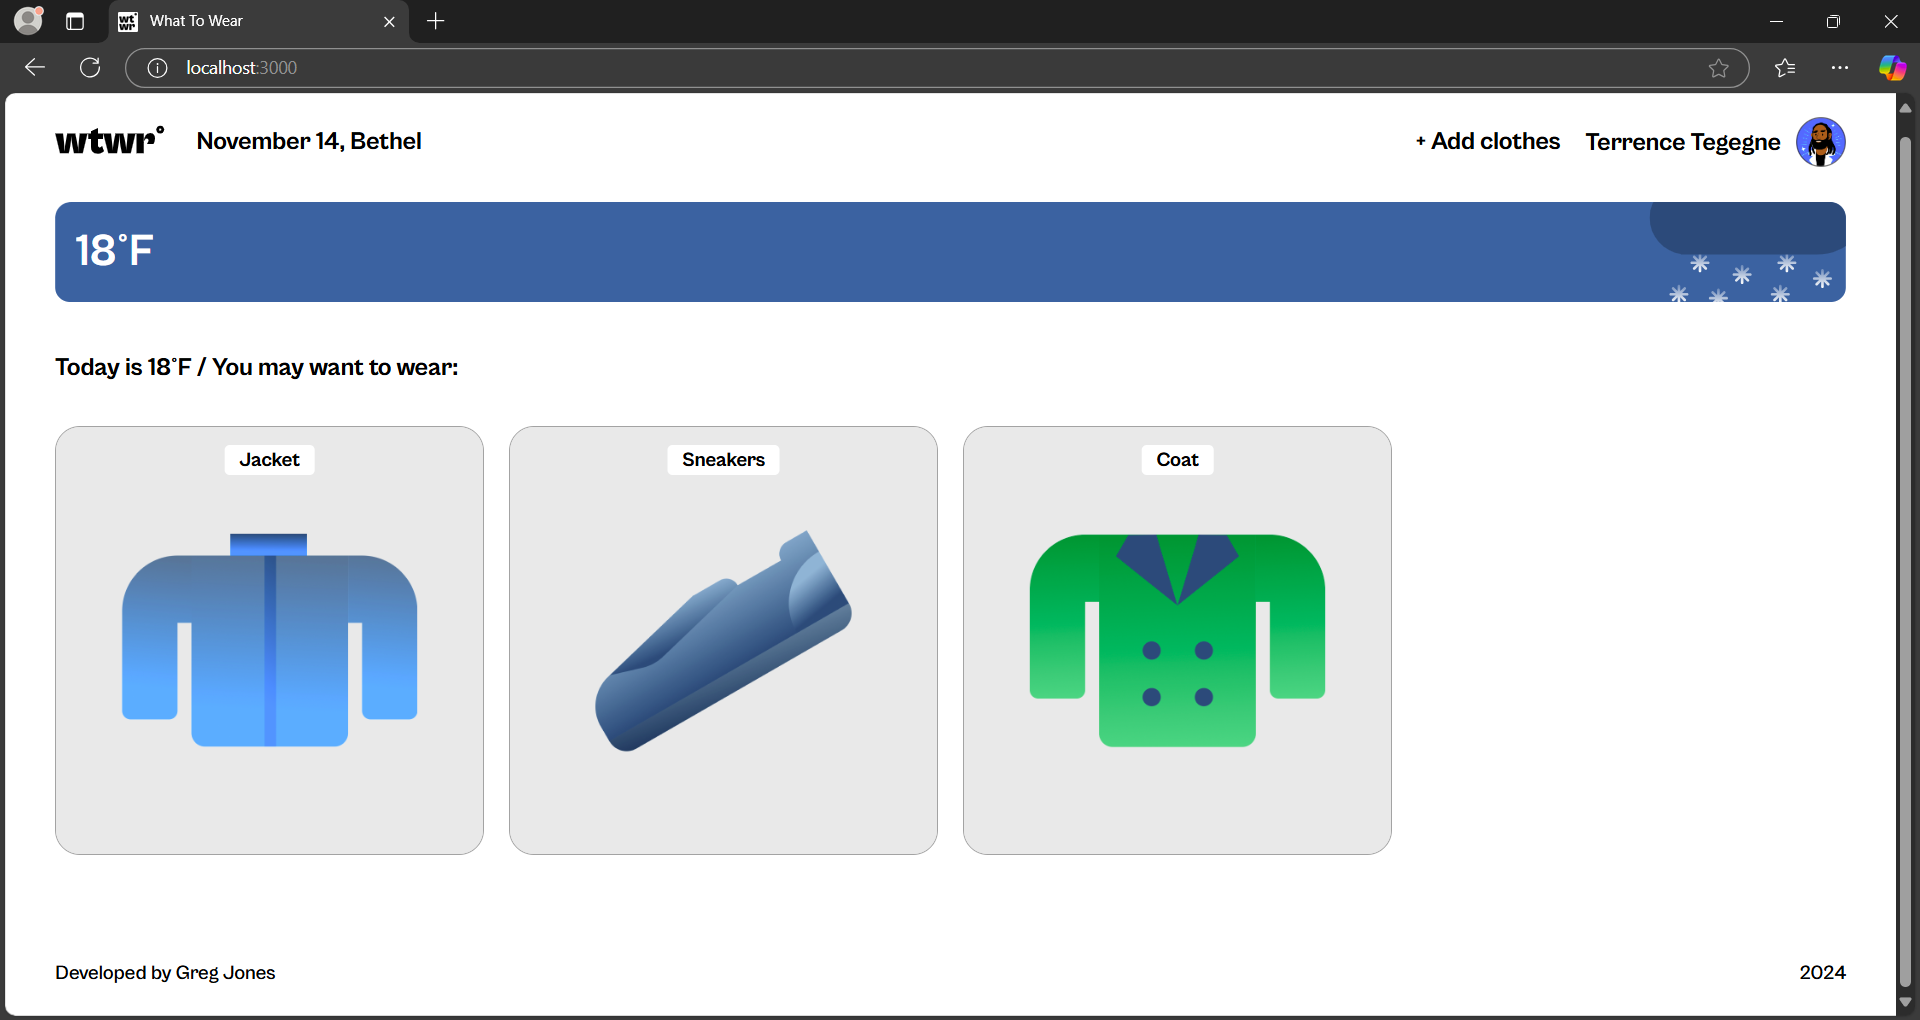
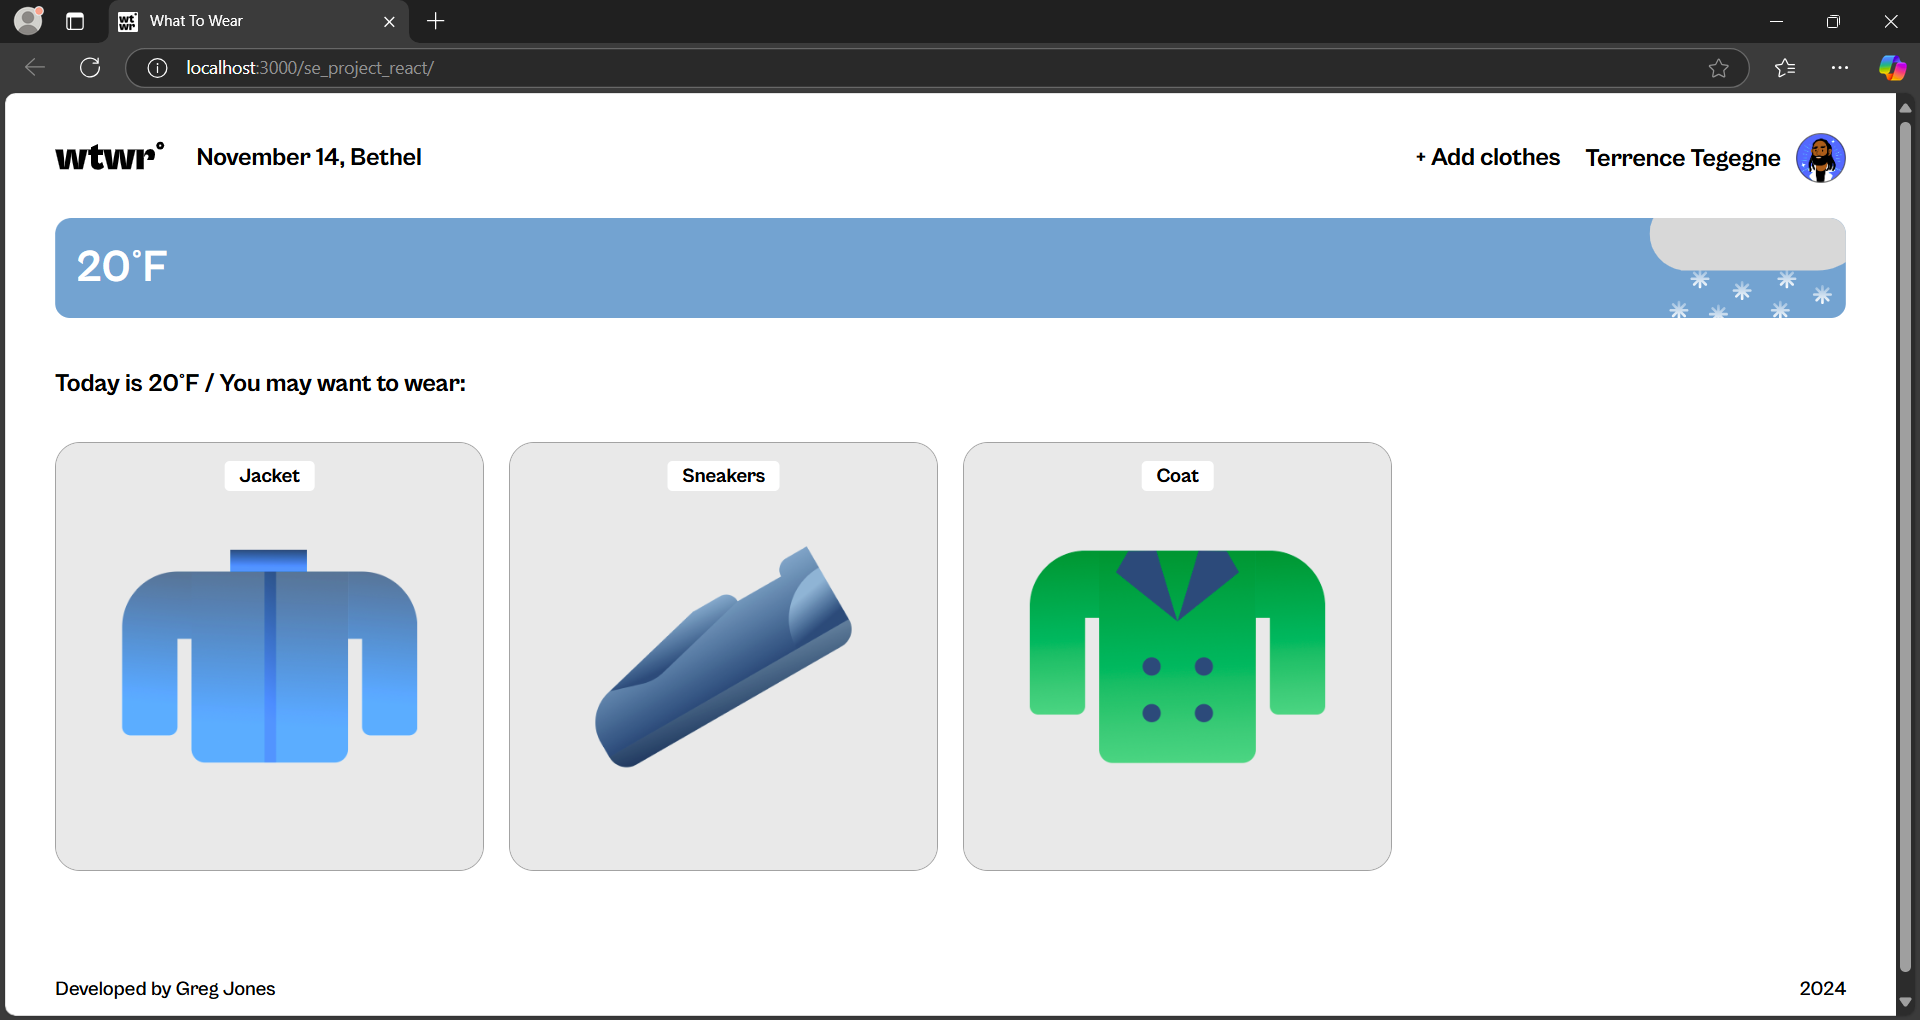
weather test cases modified

diff --git a/src/utils/constants.js b/src/utils/constants.js
@@ -84,23 +84,22 @@ export const defaultClothingItems = [
 ];
 
 export const coordinates = {
-  // Location Info As Of 12pm EST, 11/14/2024 (testing different conditions)
-
-  // Washington, DC, USA (where I live; daytime, cloudy, cold)
+  // Location Info As Of 6pm EST, 11/14/2024 (testing different conditions)
+  // Washington, DC, USA (where I live; nighttime, rainy, cold)
   latitude: 38.89511,
   longitude: -77.03637,
 
-  // Asuncion, Paraguay (daytime, clear, hot)
+  // Asuncion, Paraguay (nighttime, clear, warm)
   // latitude: -25.28646,
   // longitude: -57.647,
-
-  // Iriona, Honduras (daytime, rainy, warm)
-  // latitude: 15.933,
-  // longitude: -85.183,
 
   // Bethel, Alaska, USA (daytime, snowy, cold)
   // latitude: 60.792222,
   // longitude: -161.755833,
+
+  // Julia Creek, Queensland, Australia (daytime, cloudy, hot)
+  // latitude: -20.6561852,
+  // longitude: 141.7442214,
 };
 
 export const APIkey = "d8633e85ba6b4c163ec058a7b0364964";

diff --git a/README.md b/README.md
@@ -47,21 +47,21 @@ This stage involves:
 
 **Images**
 
-Here are eight screenshots of the project (as of Stage 1) with the desktop version screenshots (first 6) taken around 12pm EST, 11/14/2024 & with the mobile version screenshots (last 2) taken at 4:36pm EST, 11/14/2024:
+Here are eight screenshots of the project (as of Stage 1) taken around 6pm EST, 11/14/2024:
 
-Asunción, Paraguay (daytime, clear, hot)
+Asunción, Paraguay (nighttime, clear, warm)
 
 <div display="flex"><img align="center" alt="Asuncion, Paraguay" src="./src/assets/screenshots/Asuncion, Paraguay.png" /></div>
 
-Bethel, Alaska, USA (nighttime, snowy, cold)
+Bethel, Alaska, USA (daytime, snowy, cold)
 
 <div display="flex"><img align="center" alt="Bethel, Alaska, USA" src="./src/assets/screenshots/Bethel, Alaska, USA.png" /></div>
 
-Cusuna/Iriona, Honduras (daytime, rainy, warm)
+Julia Creek, Queensland, Australia (daytime, cloudy, hot)
 
-<div display="flex"><img align="center" alt="Iriona, Honduras" src="./src/assets/screenshots/Iriona, Honduras.png" /></div>
+<div display="flex"><img align="center" alt="Julia Creek, Queensland, Australia" src="./src/assets/screenshots/Julia Creek, Queensland, Australia.png" /></div>
 
-Washington, DC, USA (daytime, cloudy, cold)
+Washington, DC, USA (nighttime, rainy, cold)
 
 <div display="flex"><img align="center" alt="Washington, DC, USA" src="./src/assets/screenshots/Washington, DC, USA.png" /></div>
 
